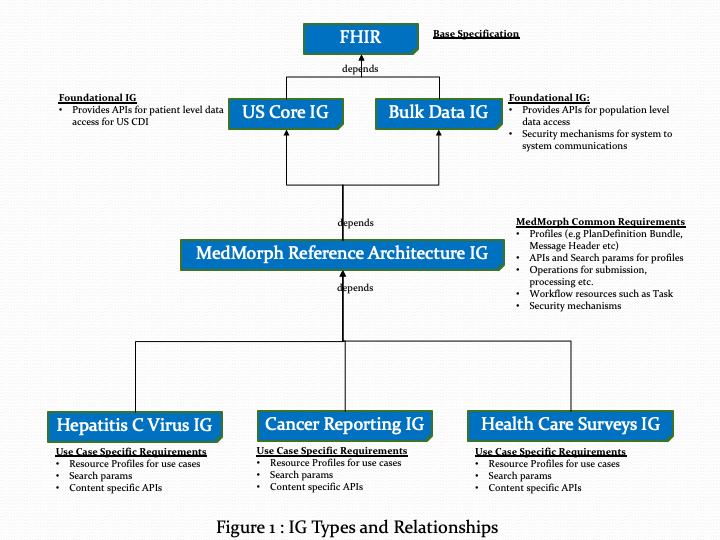
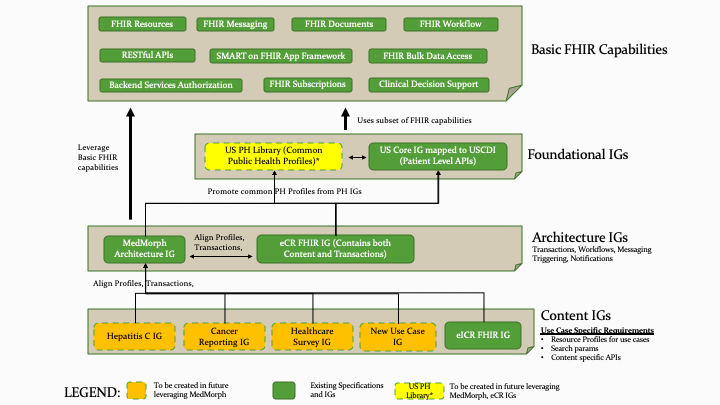
Updates to diagrams

diff --git a/input/pagecontent/background.md b/input/pagecontent/background.md
@@ -12,7 +12,11 @@ Based on the above use cases, the reference architecture IG aims to minimize the
 
 ### Implementation Guides Types and their Relationships 
 
-The MedMorph project vision is to create this Reference Architecture Implementation Guide which is common to multiple public health and research use cases. However for each use case there will be specific data, workflow requirements and operational requirements that need to be considered for implementation. These use case specific content will be specified in other Implementation Guides called as **Content Implementation Guides**. It is expected that there will be one Content Implementation Guide per use case that needs to be operationalized. The relationship between Reference Architecture IG and the Content Implementation Guide is as shown in Figure 1 below.
+The MedMorph project vision is to create this Reference Architecture Implementation Guide which is common to multiple public health and research use cases. However for each use case there will be specific data, workflow requirements and operational requirements that need to be considered for implementation. These use case specific content will be specified in other Implementation Guides called as **Content Implementation Guides**. It is expected that there will be one Content Implementation Guide per use case that needs to be operationalized. 
+
+#### Relationship between MedMorph IG, Electronic Case Reporting (eCR) FHIR IG, and US Public Health (PH) Library 
+The eCR FHIR IG is currently published. The MedMorph Architecture IG and a newer version of eCR FHIR IG are being created for the January 2020 HL7 ballot cycle. However the US Public Health (PH) Library currently does not exist. The US PH Library will be created eventually to establish a baseline of common artifacts that will be used by multiple public health implementation guides including MedMorph, [Electronic Case Reporting (eCR) FHIR IG](http://hl7.org/fhir/us/ecr/),  and the other content implementation guides shown below. The initial content for the US PH Library will be derived from MedMorph and eCR FHIR IG. For the January 2020 HL7 ballot both MedMorph and eCR FHIR IGs will create artifacts that are aligned so that they can be moved to the US PH Library eventually. All artifacts which are candidates for being promoted to the US PH Library will use the words "us" or "US" and "ph" or "PH" as part of the profile definition, name and title elements. The relationships between the three IGs are as shown in Figure 1 below.
+
 
 
 {::options parse_block_html="false" /}
@@ -23,7 +27,21 @@ The MedMorph project vision is to create this Reference Architecture Implementat
 
 {::options parse_block_html="true" /}
 
-As shown in the above Figure, the MedMorph Reference Architecture IG is built on other foundational IGs such as US Core and Bulk Data IG which provide APIs for patient level data access and population level data access respectively. The MedMorph IG is used in turn by specific use cases. For example the Hepatitis C Virus IG would specify the profiles, search parameters and operations for use case specific requirements but would reuse the MedMorph IG to trigger events, submit data, process knowledge artifacts etc. 
+**NOTE to Reviewers:** 
+
+Although the US PH Library does not exist, it is being shown here as the direction that we will be taking under the guidance of the Public Health WG. The US PH Library will harmonize similar profiles from multiple IGs being produced under the sponsorship Public Health WG. This will ensure consistency across implementation guides, reduce profile proliferation and provide a starting point for future content implementation guides.  
+
+#### Relationship between MedMorph IG and US Core FHIR IG  
+
+As shown in the above Figure, the MedMorph Reference Architecture IG is built on other basic FHIR capabilities and the US Core IG.  From the US Core IG, MedMorph will use profiles as required for each use case. In addition to the profiles, For all public health reporting use cases being considered for MedMorph, the patient level FHIR APIs specified in US Core will be leveraged extensively by MedMorph and other content implementation guides.
+
+#### Relationship between MedMorph IG and FHIR Bulk Data Access
+ 
+For research use cases, specifically where data about multiple patients need to be retrieved, MedMorph will use FHIR Bulk Data Access specified in the BulkDataAccess IG. MedMorph IG will also leverage Backend Services Authorization protocols specifed in the BulkDataAccess IG to secure system to system communication transactions.
+
+#### Relationship between MedMorph IG and Content Implementation Guides 
+
+The MedMorph IG is an architecture IG and does not prescribe content specific to any use case. Rather it specifies the  the workflow processing, trigger mechanisms using PlanDefinition, ActivityDefinition, ValueSets etc, and  APIs for message routing using Bundle, MessageHeader etc. The Content Implementation Guide such as Health Care Survey IG would specify the profiles, search parameters and operations for use case specific requirements but would reuse the MedMorph IG to trigger events, submit data, process knowledge artifacts and manage workflows etc. 
 
 ### Guiding Principles 
 
@@ -148,7 +166,17 @@ Implementers should familiarize themselves with the FHIR resources and their pur
   </tr>
 </table>
 
-#### US Core IG
+#### Electronic Case Reporting eCR FHIR IG
+
+This implementation guide algins with the eCR FHIR IG where profiles exist for the resources identified in the previous section and implementers need to familiarize themselves with the eCR FHIR IG.
+
+<table>
+  <tr>
+    <td><a href="http://hl7.org/fhir/us/ecr/">eCR FHIR IG STU 1 - FHIR R4 based IG</a></td>
+  </tr>
+</table>
+
+#### US Core FHIR IG
 
 This implementation guide also builds on the US Core Implementation Guide where profiles exist for the resources identified in the previous section and implementers need to familiarize themselves with the US Core IG.
 
